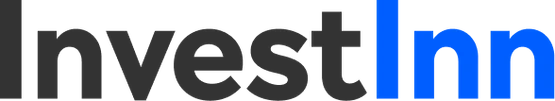
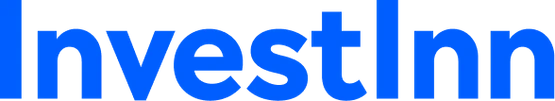
The ratings row per the Figma, thinner footer rules, InvestInn in one colour
Ratings row: the blue fill comes off the Trustpilot column and the title and
score go back to the dark ink, since they were only white to sit on that fill.
Star, title and score take the Figma's proportions — a 64px star, the word at
42px where 28 reached only 135 of the ~259 it is drawn at, the five score stars
at 20px, and "5.0, 50 Review". The two separators are gone again.

Footer offices panel: the three rules go to 1.5px against the border's 2px, so
they read thinner than the frame around them. That is as thin as they go while
staying even — width is what keeps them from splitting across device pixels,
and at 1.25px they start landing at three different strengths again. Measured
even at 1536, 1920, 1440 at both ratios, 1280, 1024 and 600; the one exception
is 430 at a 1.25 ratio, where one of the stacked rules still draws at 75%.

InvestInn: the supplied PNG is the dark-background lockup, "Invest" in pure
white and "Inn" in the brand blue, so on the near-white strip half the wordmark
was not there. Neither of the first two answers was right — #333 turned half of
it black, and a dark plate put a box in a strip of transparent marks. The white
half now takes the blue the other half already is: one colour rather than two,
still InvestInn's own, and since the strip greyscales at rest it reads as one
even grey wordmark there and returns to blue on hover.

Contact form: the captcha's error line reserved 24px whether or not there was
[…]

diff --git a/styles/globals.css b/styles/globals.css
@@ -267,12 +267,6 @@
   --color-primary: #164a9e;
   --color-primary-dark: #0f3a7e;
   --color-accent: #f09d4d;
-  /* The accent held back, for a rule that sits inside something already drawn
-     in the accent. The three separators in the footer offices panel are the
-     same hue and the same 2px as the border framing them, and at full
-     strength all four read as one grid; a little under it they read as
-     separators inside a panel. */
-  --color-hairline: rgba(240, 157, 77, 0.6);
   --color-star: #dfb300;
   --color-text: #333333;
   --color-text-muted: #5c5c5c;
@@ -7729,14 +7723,16 @@ button {
 }
 
 .office-divider {
-  /* Same 2px as the panel border — see the note there for why 1px drew these
-     three at three different strengths. */
-  width: 2px;
+  /* Thinner than the 2px border framing it, which is the point — but not by
+     much, because width is what keeps the three even. A rule narrower than a
+     whole device pixel is split by wherever it lands, and these three land on
+     three different fractions. Measured at 1536 on a 125% display, 1.5px is
+     the thinnest that still draws all three at equal strength. */
+  width: 1.5px;
   align-self: stretch;
-  /* A shade under the border that frames them, so the three fade slightly
-     rather than matching it stroke for stroke. Was #e5e5e5, which read as a
+  /* The same accent as the border framing them. Was #e5e5e5, which read as a
      seam in the panel rather than part of it. */
-  background: var(--color-hairline);
+  background: var(--color-accent);
 }
 
 .footer__bottom {
@@ -7797,9 +7793,9 @@ button {
   .office-divider {
     display: block;
     width: 100%;
-    height: 2px;
+    height: 1.5px;
     align-self: center;
-    background: var(--color-hairline);
+    background: var(--color-accent);
   }
 }
 
@@ -7838,12 +7834,12 @@ button {
      the left column. */
   .office:nth-child(1),
   .office:nth-child(5) {
-    border-right: 2px solid var(--color-hairline);
+    border-right: 1.5px solid var(--color-accent);
   }
 
   .office:nth-child(1),
   .office:nth-child(3) {
-    border-bottom: 2px solid var(--color-hairline);
+    border-bottom: 1.5px solid var(--color-accent);
   }
 }
 
@@ -14596,7 +14592,6 @@ body.nav-open .contact-dock {
   justify-content: center;
   padding: 30px;
   border-radius: var(--radius-24);
-  background: var(--color-primary);
 }
 
 .trustpilot-card-inner {
@@ -14616,8 +14611,12 @@ body.nav-open .contact-dock {
 .trustpilot-card-title {
   font-family: var(--font-display);
   font-weight: var(--fw-semibold);
-  font-size: 28px;
-  color: #ffffff;
+  /* 42, not 28. In the Figma the word runs ~259px across a 1658px card; at
+     28px it reached 135. Beside a 64px star it is a logo, not a caption. */
+  font-size: 42px;
+  /* Was #ffffff for the blue fill. With no fill it takes the same ink the
+     other two columns use, or it would be white on white. */
+  color: var(--color-black);
 }
 
 .trustpilot-card-score {
@@ -14626,11 +14625,20 @@ body.nav-open .contact-dock {
   gap: 10px;
 }
 
+/* The five score stars are 16px everywhere else on the page; the Figma draws
+   this row ~144px wide, which is 20px each. Scoped to this column so the hero
+   and testimonial rows keep theirs. */
+.trustpilot-card-score .stars__icon {
+  width: 20px;
+  height: 20px;
+}
+
 .trustpilot-card-text {
   font-family: var(--font-display);
   font-weight: var(--fw-medium);
-  font-size: var(--fs-16);
-  color: #ffffff;
+  /* 20 to sit with the 42px title, and what the Figma measures. */
+  font-size: var(--fs-20);
+  color: var(--color-black);
 }
 
 .reviews-bar__card > .review-stat:not(.review-stat--blue) {
@@ -14638,37 +14646,10 @@ body.nav-open .contact-dock {
   min-width: 0;
 }
 
-/* The hairlines that split the row into three, in the same accent as the
-   footer's office panel.
-
-   The 40px inset is the point. In the footer the dividers stretch inside a
-   panel that has 40px of padding, so they stop well short of its edges and
-   read as separators; .reviews-bar__card has no padding of its own on the
-   desktop, so stretching here ran them the full height of the card, corner to
-   corner, and the row read as a three-cell table rather than a card. */
-.reviews-bar__divider {
-  /* 2px, like the footer panel's border. 1px is 1.25 device pixels on a 125%
-     display, so where a rule lands decides whether it draws at full strength
-     or three quarters, and these two land differently. */
-  width: 2px;
-  align-self: stretch;
-  margin-block: 40px;
-  background: var(--color-accent);
-  flex: 0 0 auto;
-}
-
 @media (max-width: 767.98px) {
     .reviews-bar__card {
       gap: 32px;
       padding: 30px 24px;
-    }
-
-    /* The row wraps to one card per line here, so a vertical rule between
-       them has nothing to divide. Hidden rather than turned horizontal: the
-       cards are already generously spaced by the 32px gap, and the footer's
-       equivalent does the same at this width. */
-    .reviews-bar__divider {
-      display: none;
     }
 
     .review-stat--blue {
@@ -15050,6 +15031,20 @@ body.nav-open .contact-dock {
   /* On the primary blue this needs to be a light warm tone, not a red that
      disappears into the panel. */
   color: #ffd9b0;
+}
+
+/* Reserved space costs nothing to keep while there is a message and 24px of
+   dead air while there is not — and it stacked on the form’s own 30px gap, so
+   the button sat 70px below the last thing you can read. Collapsed while
+   empty, the button is 30px down like every other row of this form; a message
+   appearing pushes it back down by those 24px, which happens on a press rather
+   than on load. Collapsed rather than display:none so the live region stays in
+   the accessibility tree and still announces. */
+.contact__captcha-error:empty {
+  margin-top: 0;
+  min-height: 0;
+  height: 0;
+  overflow: hidden;
 }
 
 @media (max-width: 767.98px) {

diff --git a/components/Industries.tsx b/components/Industries.tsx
@@ -226,14 +226,10 @@ export function Industries() {
             </div>
 
 
-            {/* Splits the row into three, the way the footer's office panel
-                does. Presentational, so it is hidden from assistive tech —
-                the three cards are already separate elements there. */}
-            <div className="reviews-bar__divider" aria-hidden="true" />
             <div className="review-stat review-stat--blue">
               <div className="trustpilot-card-inner">
                 <div className="trustpilot-card-head">
-                  <svg className="trustpilot-star-svg" viewBox="0 0 24 24" width="28" height="28" aria-hidden="true">
+                  <svg className="trustpilot-star-svg" viewBox="0 0 24 24" width="64" height="64" aria-hidden="true">
                     <path fill="#00b67a" d="M12 0l3.6 7.4L24 8.5l-6 5.8 1.4 8.3L12 18.7l-7.4 3.9L6 14.3 0 8.5l8.4-1.1L12 0z" />
                   </svg>
                   <span className="trustpilot-card-title">Trustpilot</span>
@@ -261,10 +257,6 @@ export function Industries() {
               </div>
             </div>
 
-            {/* Splits the row into three, the way the footer's office panel
-                does. Presentational, so it is hidden from assistive tech —
-                the three cards are already separate elements there. */}
-            <div className="reviews-bar__divider" aria-hidden="true" />
 
             <div className="review-stat">
               <img
